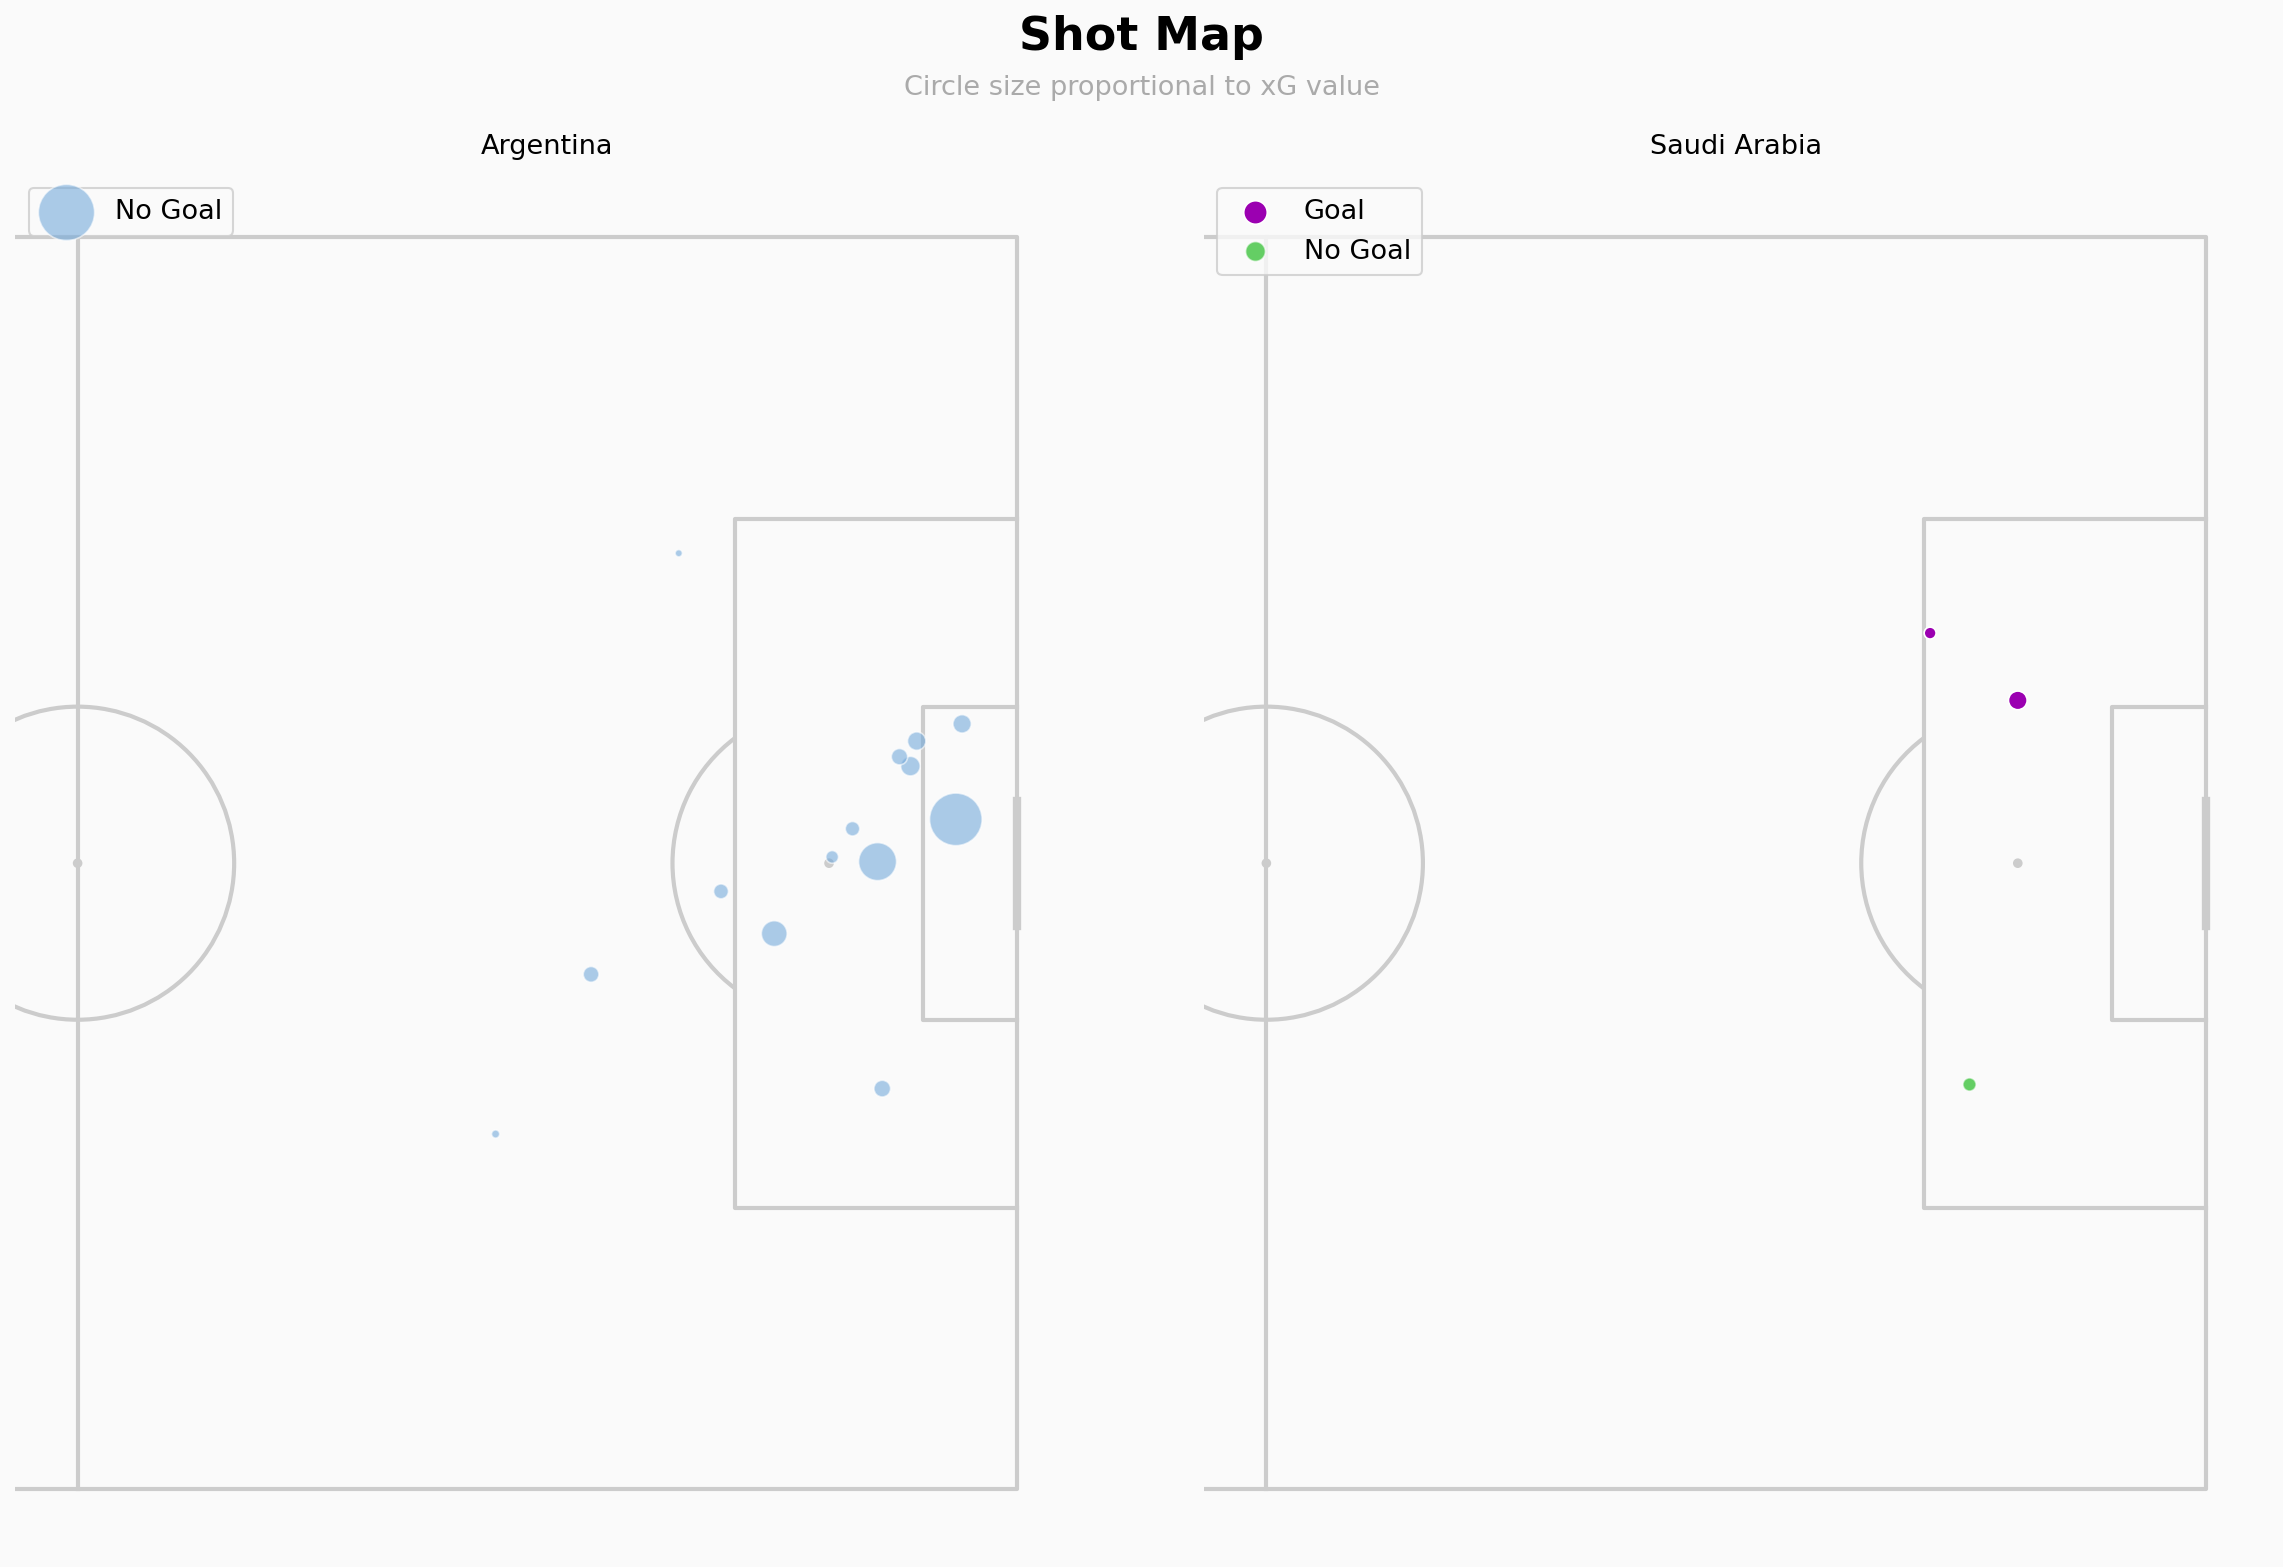
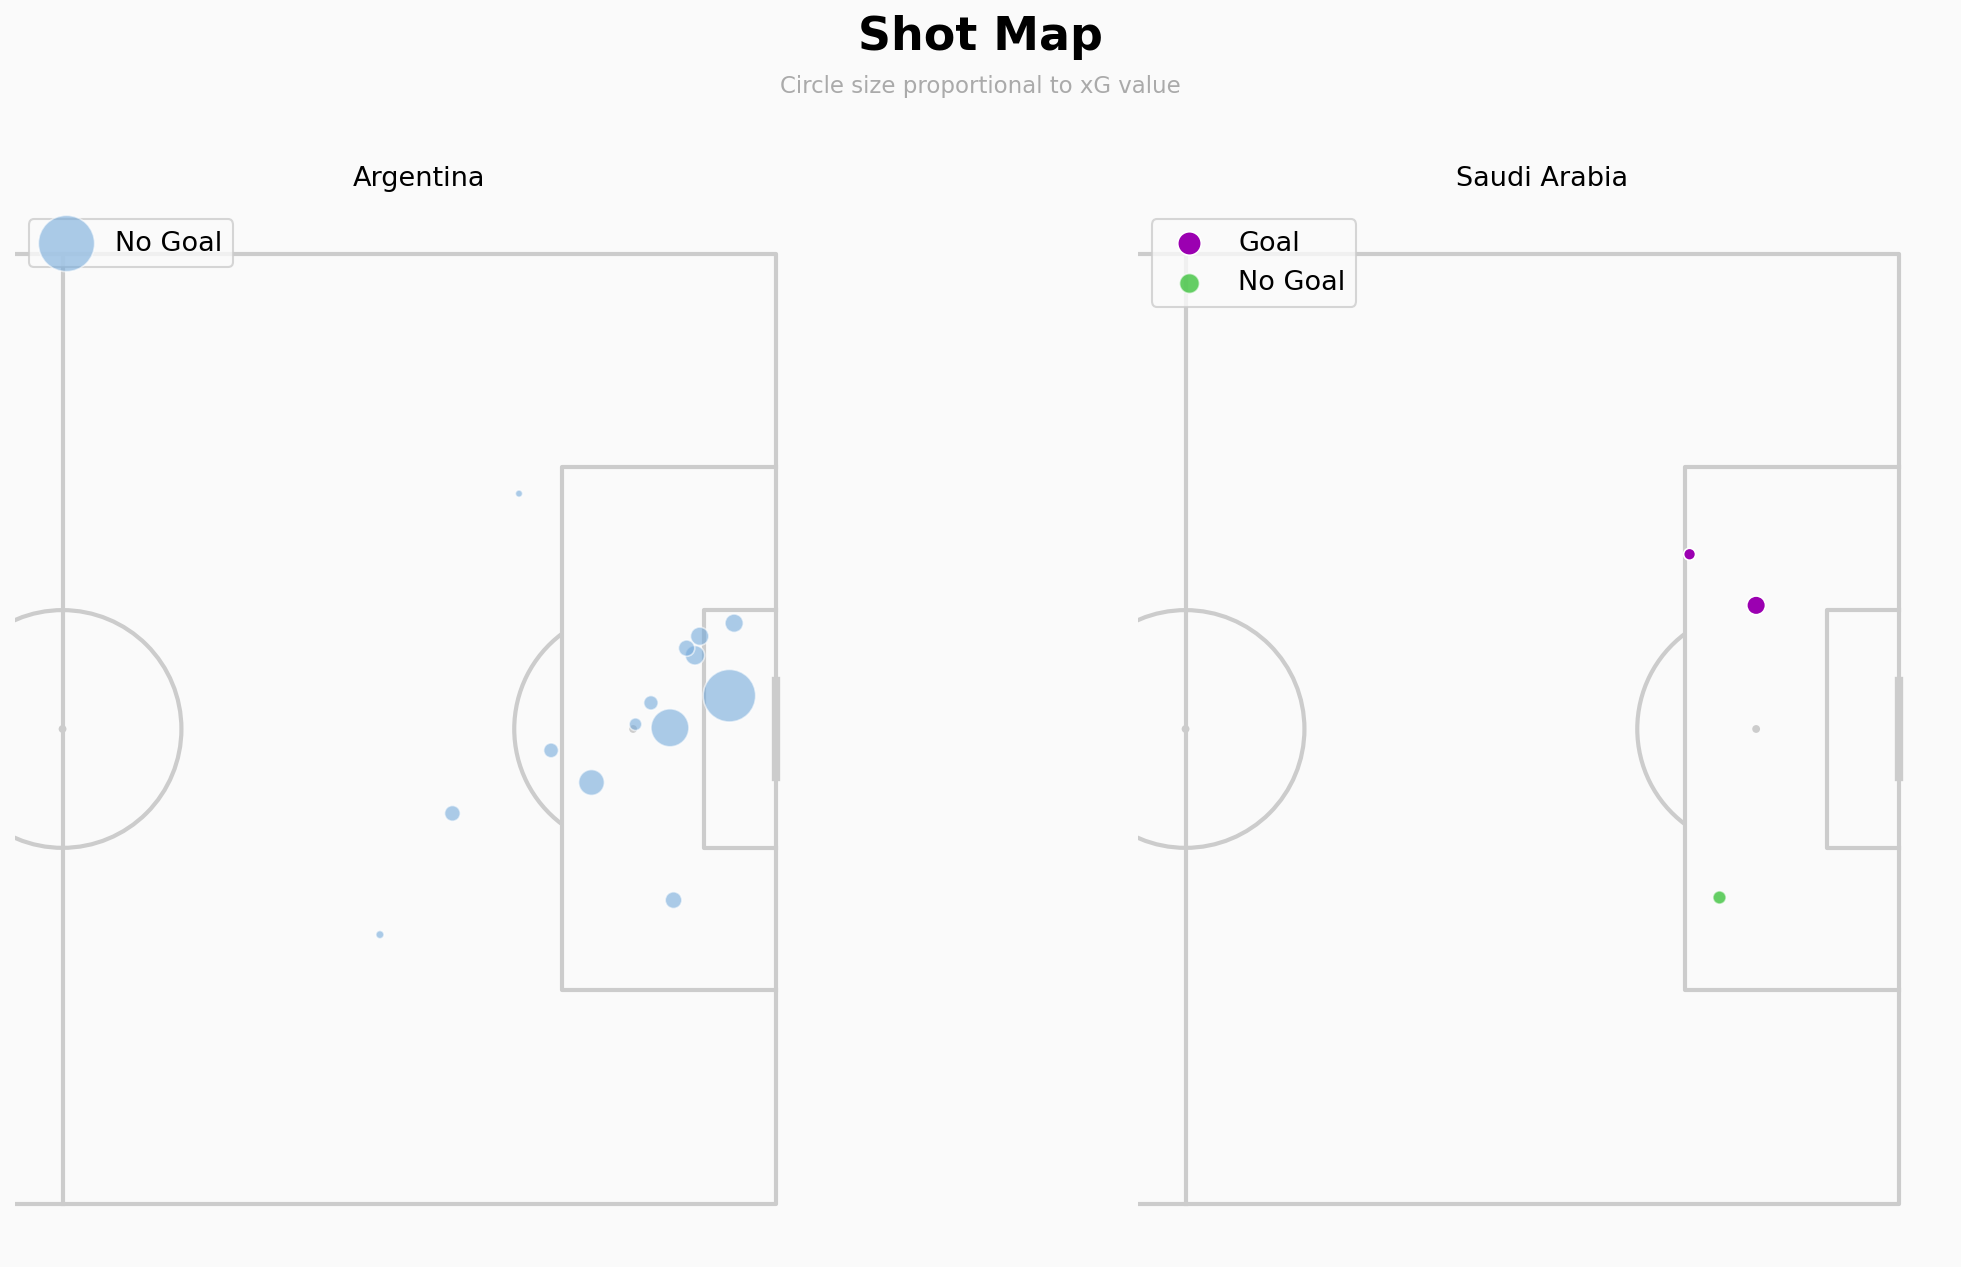
Added passing network viz

diff --git a/_site/blog/index.html b/_site/blog/index.html
@@ -262,7 +262,7 @@ window.Quarto = {
     </div>
 </div>
 <div class="list quarto-listing-default">
[2 lines of base64/hex data omitted]
 <div class="thumbnail"><a href="../blog/posts/soccer-viz-arg-ksa-2022/index.html" class="no-external">
 
 <p class="card-img-top"><img loading='lazy' src="posts/soccer-viz-arg-ksa-2022/index_files/figure-html/cell-6-output-1.png"  class="thumbnail-image card-img"/></p>
@@ -463,7 +463,7 @@ May 19, 2026
     }
       var localhostRegex = new RegExp(/^(?:http|https):\/\/localhost\:?[0-9]*\//);
       var mailtoRegex = new RegExp(/^mailto:/);
-        var filterRegex = new RegExp("https:\/\/tripps44\.github\.io\/");
+        var filterRegex = new RegExp('/' + window.location.host + '/');
       var isInternal = (href) => {
           return filterRegex.test(href) || localhostRegex.test(href) || mailtoRegex.test(href);
       }

diff --git a/_site/custom.css b/_site/custom.css
@@ -40,3 +40,33 @@ a {
 a:hover {
   color: #095e61 !important;
   text-decoration: underline;
+}
+
+/* Safer fix for horizontal scroll */
+html {
+  overflow-x: hidden;
+}
+
+.page-columns,
+.page-layout-full {
+  max-width: 100%;
+  overflow-x: hidden;
+}
+
+/* Images never overflow */
+img {
+  max-width: 100%;
+  height: auto;
+}
+
+/* Code blocks scroll independently */
+pre {
+  overflow-x: auto;
+  -webkit-overflow-scrolling: touch;
+}
+
+/* Plotly charts scale to container */
+iframe {
+  max-width: 100% !important;
+  width: 100% !important;
+}
